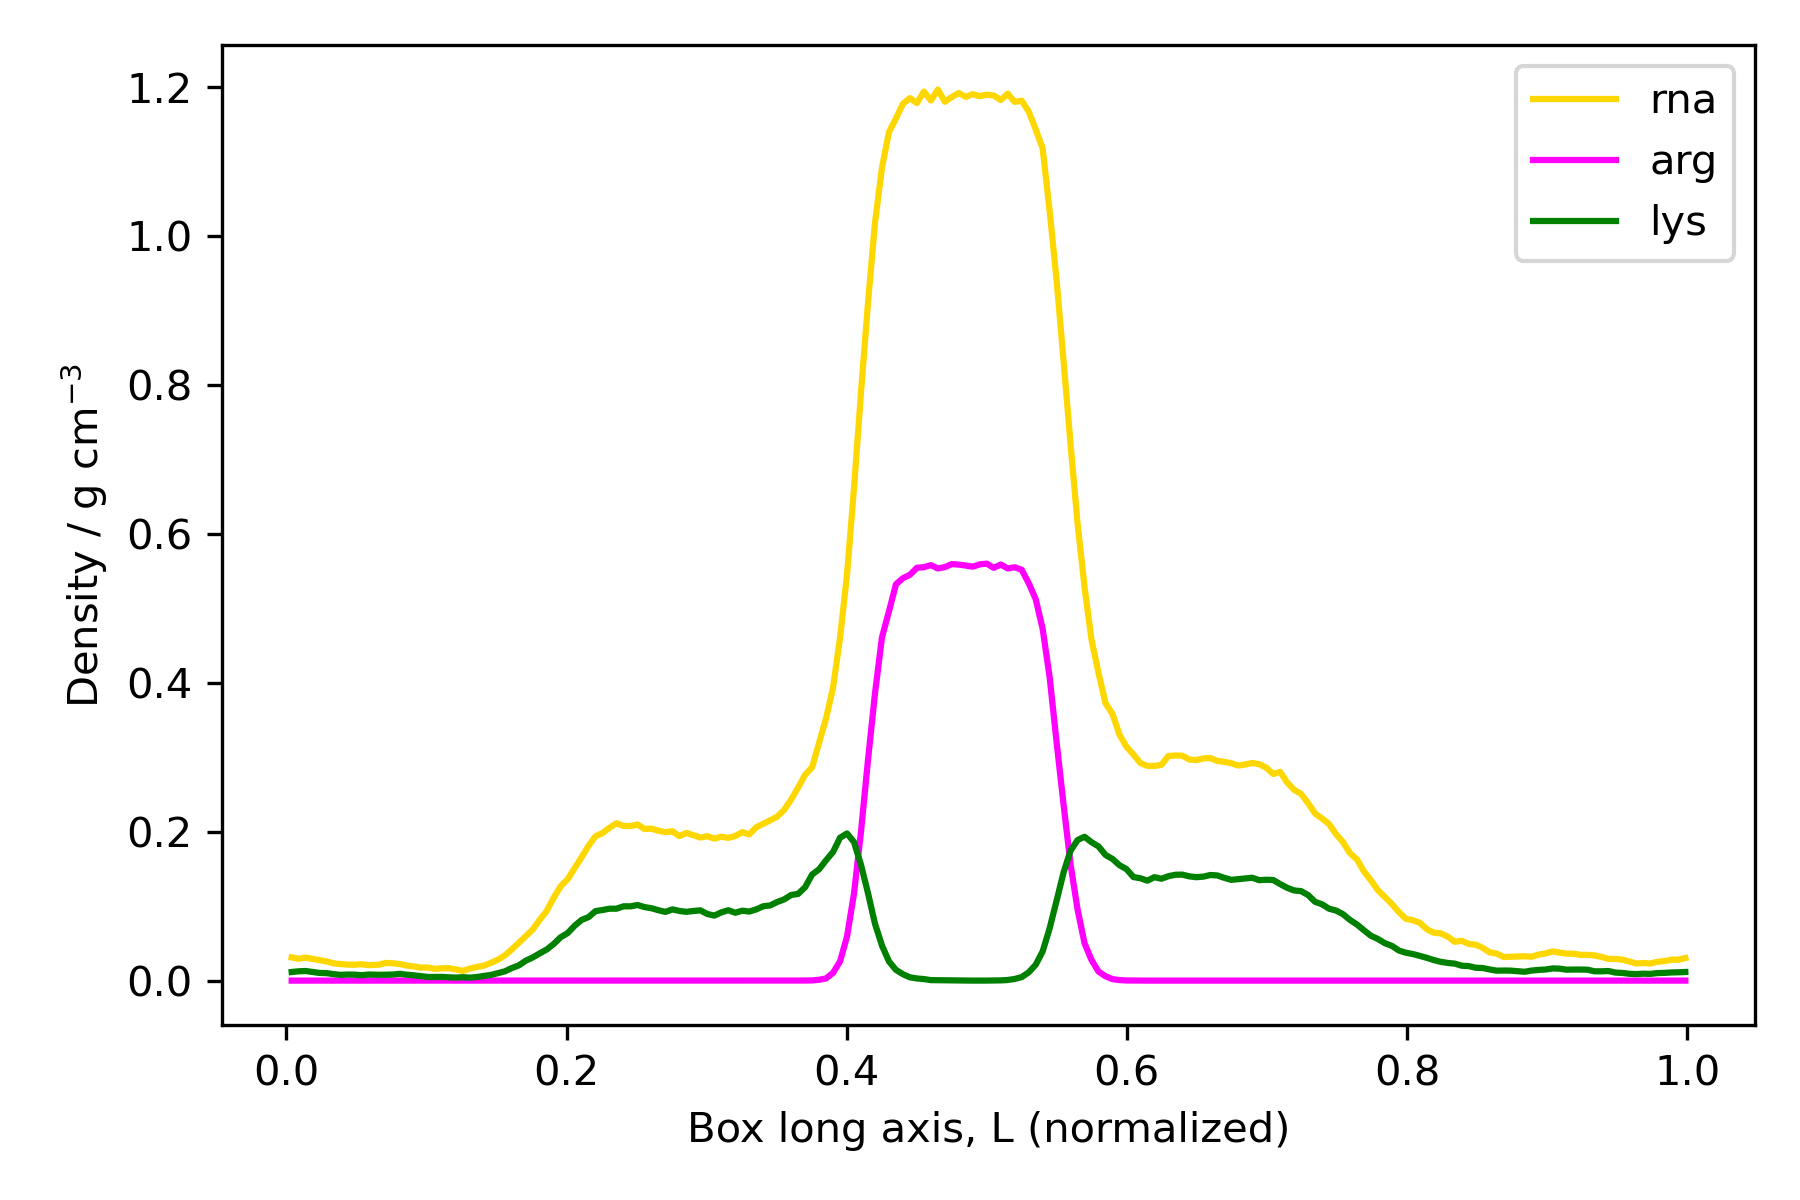
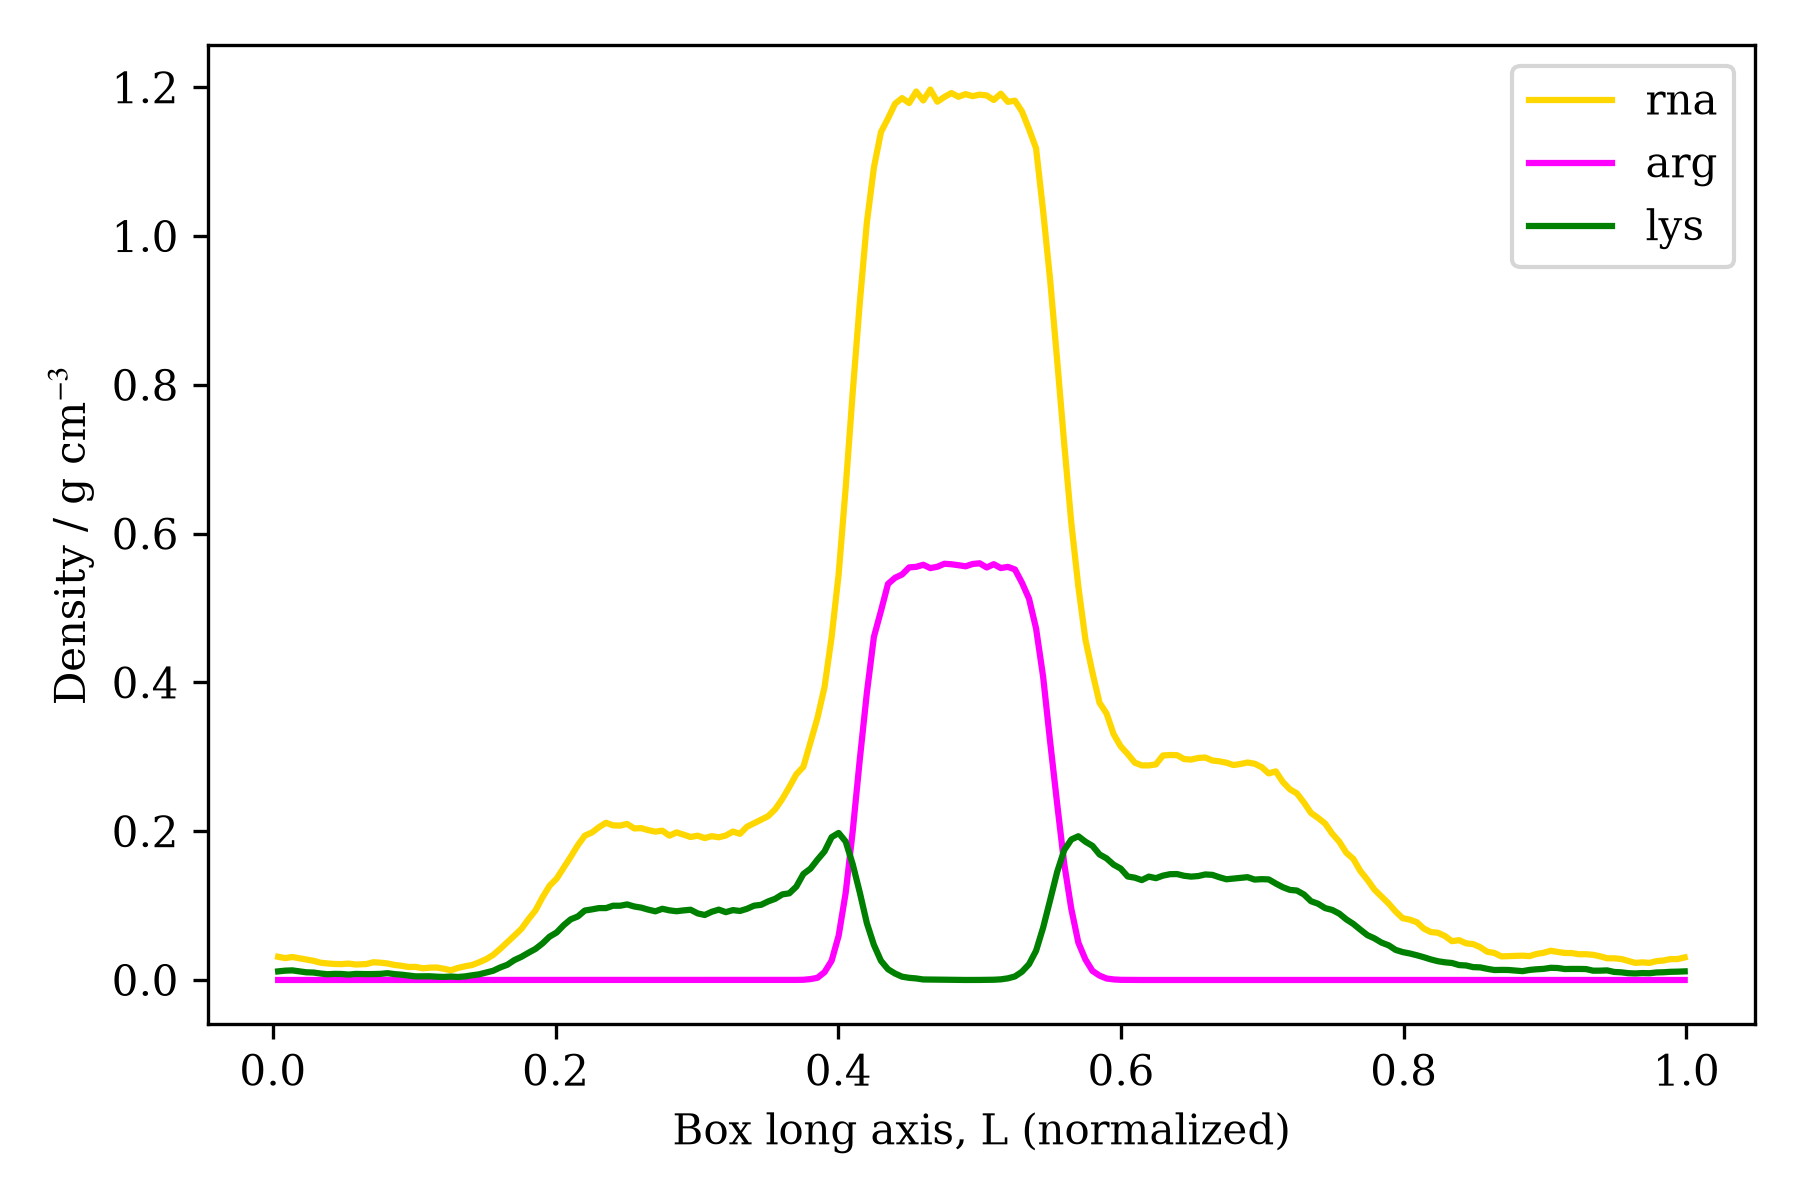
Updated plotstyle on density plot for funsies

diff --git a/analysis/density_plot.py b/analysis/density_plot.py
@@ -2,7 +2,7 @@
 Recreate Fig. 6d (Joseph et al., Mpipi paper) from LAMMPS fix ave/chunk output.
 
 Expects arg.density.profile, lys.density.profile, rna.density.profile
-in the current directory (same format as your fix ave/chunk output).
+in the ../josephetal22 directory.
 """
 import numpy as np
 import matplotlib.pyplot as plt
@@ -48,6 +48,11 @@ def average_equilibrated(blocks, frac_discard=0.0):
 
 
 def main():
+    plt.rcParams.update({
+        "font.family": "serif",
+        "mathtext.fontset": "stix"
+    })
+    
     script_dir = os.path.dirname(os.path.abspath(__file__))
     parent_dir = os.path.dirname(script_dir)
     profiles_dir = os.path.join(parent_dir, "josephetal22")
